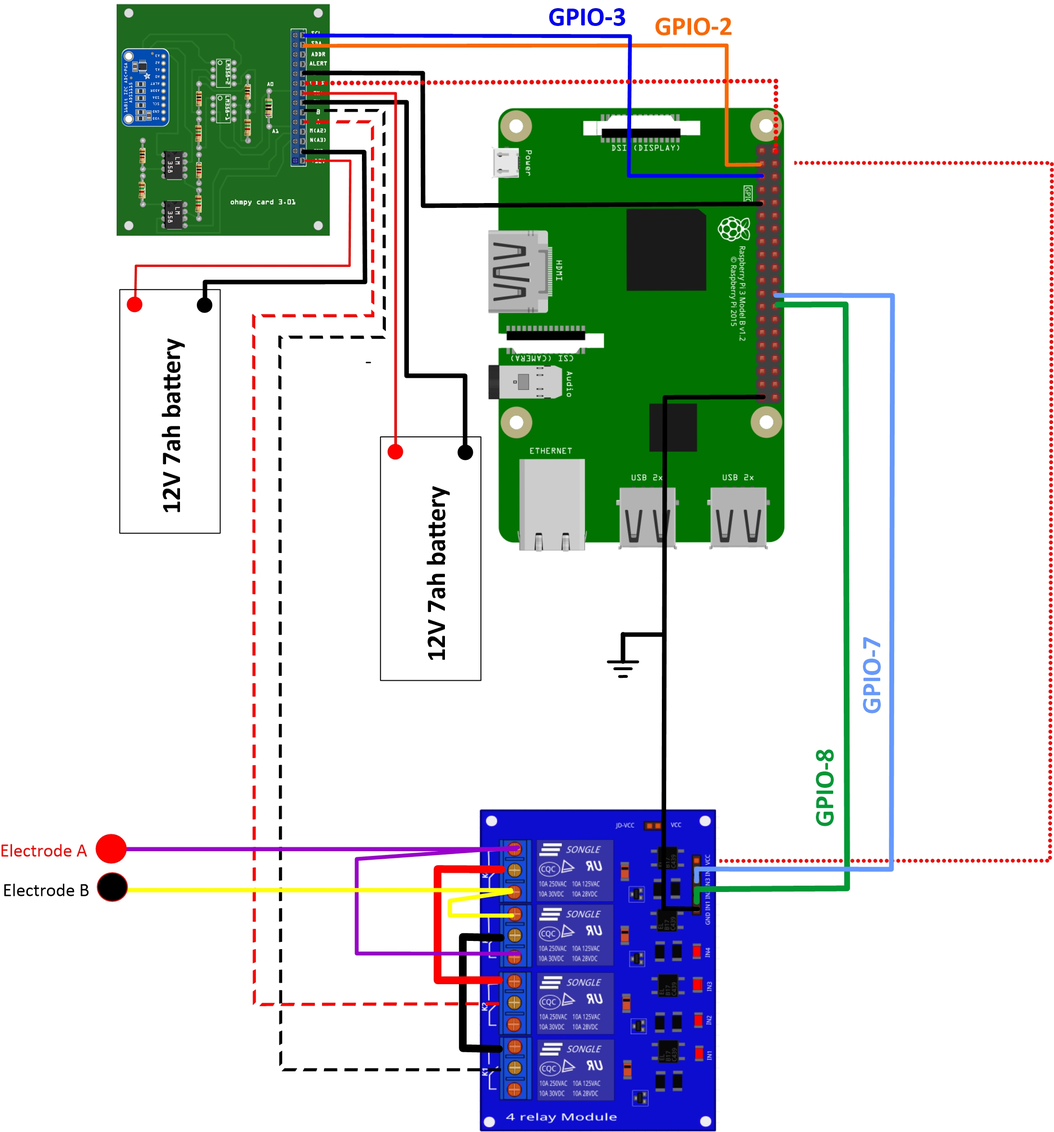
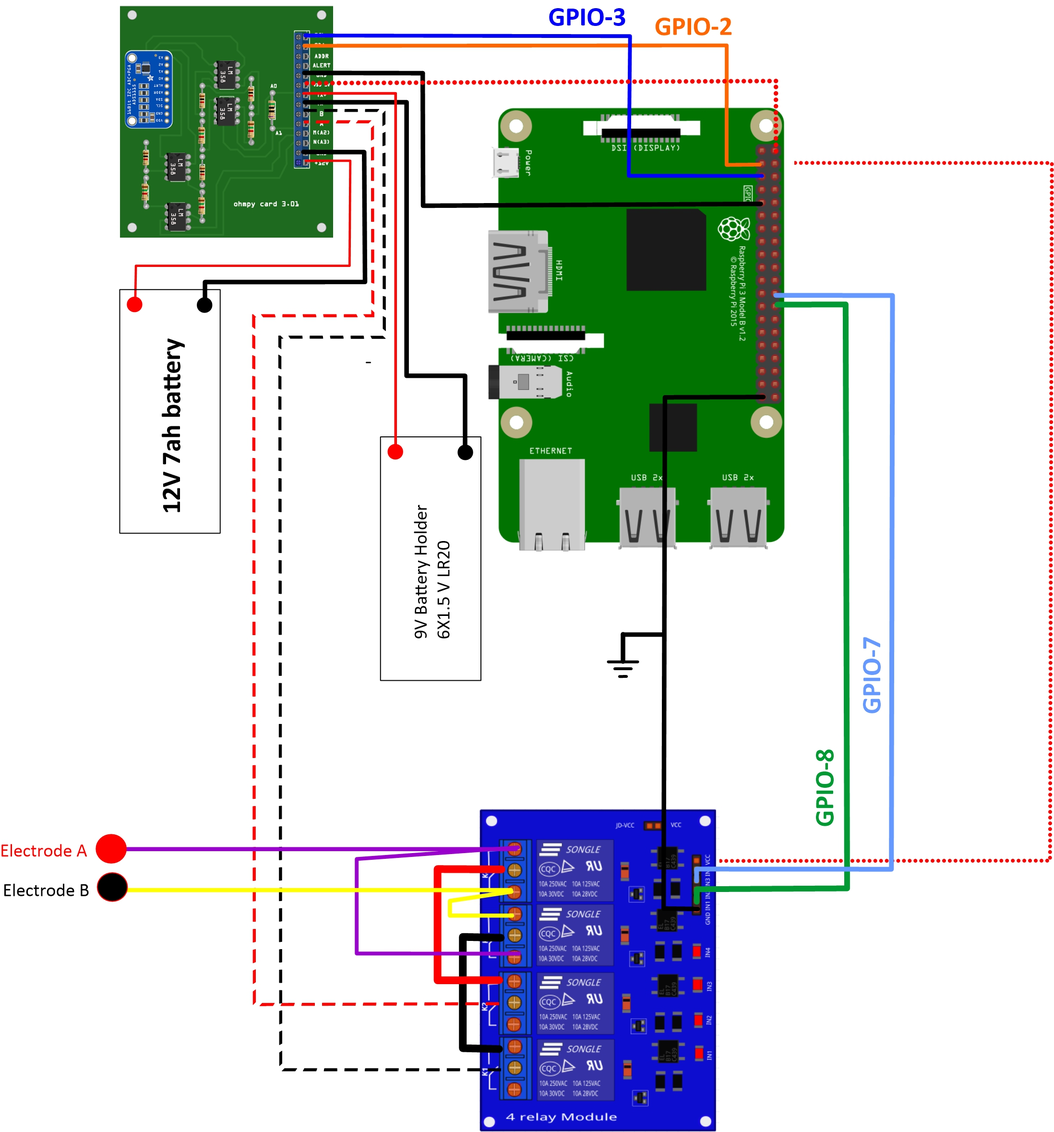
Update figure current injection board version 1.01

diff --git a/public/searchindex.js b/public/searchindex.js
@@ -1,1 +1,1 @@
-Search.setIndex({docnames:["index","page0","page1"],envversion:{"sphinx.domains.c":2,"sphinx.domains.changeset":1,"sphinx.domains.citation":1,"sphinx.domains.cpp":3,"sphinx.domains.index":1,"sphinx.domains.javascript":2,"sphinx.domains.math":2,"sphinx.domains.python":2,"sphinx.domains.rst":2,"sphinx.domains.std":1,sphinx:56},filenames:["index.rst","page0.rst","page1.rst"],objects:{},objnames:{},objtypes:{},terms:{"100nf":[],"10nf":[],"12v":2,"1x0":2,"1x1":2,"1x10":2,"24v":[],"400px":[],"50vdc":[],"5vcc":2,"5vdc":2,"7ah":2,"800px":[],"ao\u00fbt":1,"case":2,"cr\u00e9er":[],"d\u00e9mo":[],"esp\u00e8r":[],"final":2,"function":[1,2],"h\u00e9l\u00e8ne":[0,1],"install\u00e9":[],"justifi\u00e9":[],"mm\u00b2":2,"nec\u00e9ssair":[],"new":2,"orl\u00e9an":1,"pr\u00e9sent":[],"pr\u00e9sentat":[],"premi\u00e8r":[],"public":2,"r\u00e9mi":[0,1],"r\u00e9sistanc":[],"return":2,"switch":2,"universit\u00e9":1,"vid\u00e9o":2,ADS:2,CMS:2,For:2,IDE:[],IGE:1,Its:2,The:0,These:2,With:2,abmn:2,abov:2,acc:2,access:2,accord:2,accur:2,accuraci:2,acid:2,activ:[],actual:2,adafruit:2,adapt:2,adc:2,added:2,adding:2,addit:2,address:2,adjust:2,administr:[],ads1115:2,ads115:2,ads1x15:2,after:2,albatross:[],align:[],all:2,allow:[1,2],alp:1,also:2,alt:[],altern:2,amp:2,amplifi:2,analog:2,angl:[],ani:2,anoth:2,aop:[],appear:2,appli:2,applic:1,apt:2,arduino:2,arm:2,arrai:2,articl:2,asler:2,assembl:0,assist:2,associ:1,attent:2,attribut:2,aug:[],author:[0,1,2],automat:[1,2],automobil:2,avail:2,avon:[],avr:2,bank:2,barbeau:[],base:2,basic:1,batteri:2,been:2,befor:2,behavior:2,being:2,below:2,between:2,bin:2,bit:2,black:2,blinka:2,block:2,blue:2,bluetext:[],board:[],bodytext:[],bone:[],boot:2,both:2,bridg:2,bug:2,build:2,button:2,c_1:[],c_2:[],cabl:2,calcul:2,calibr:2,call:1,can:2,canal:2,cap:2,capac:2,capacitor:[],caption:[],car:2,card:0,carri:2,caus:2,ceci:[],cedex:1,cela:[],center:[],chacun:[],channel:2,characterist:2,charg:2,check:2,chosen:2,christoph:[],circuit:2,circuitpython:2,circul:2,clean:2,clement:[0,1],click:2,close:2,code:2,coef_p0:2,coef_p1:2,coef_p2:2,coef_p3:2,coeff:2,coeff_:[],coeff_p0:[],coeff_p1:[],coeff_p3:[],coeff_p_:[],coeffici:2,cokela:[],com:2,command:2,commerci:2,common:2,commun:1,complet:0,compon:0,comput:2,conduct:2,config:2,configur:0,congratul:2,connect:0,connector:2,consequ:2,consist:2,constitut:2,construct:2,consult:[],consumpt:2,contact:2,contain:2,content:0,control:2,convers:2,convert:2,correct:2,correspond:2,corrig:[],cos:[],cost:[1,2],could:2,cpu:2,creat:2,creation:1,crimp:2,crunchi:[],csv:2,ctrl:2,currenc:[],current:[0,1],damag:2,dan:[],daniel:[],data:[0,1],date:[0,1],deactiv:2,dec:0,decid:2,decoupl:[],dedic:1,degre:[],delai:2,deliv:2,demo:[],depend:2,des:[],describ:2,design:2,despit:2,detail:2,dev:2,develop:[0,1,2],developp:[],diagram:2,differ:2,digit:2,din:2,direct:2,directli:2,directori:2,disconnect:2,displai:2,distanc:2,disturb:2,divid:2,diviseur:[],dkfjshkdfh:[],doc:[],document:[1,2],doe:[],done:2,download:2,dsp:2,dual:2,duboi:[0,1],durat:2,dure:2,dzwb4:2,e00122ff:1,each:2,editor:2,eiffel:1,either:2,electr:1,electrod:[0,1],electron:2,elsevi:1,emil:1,enabl:2,end:2,energ:2,enough:2,ensur:2,enter:2,entir:2,environ:2,environn:[],environnementshould:2,equal:2,equival:2,eric:[],ert:2,escap:2,est:[],estim:2,everyon:1,evolv:2,exampl:2,excess:2,execut:2,exist:2,experi:[1,2],explain:2,extra:2,failur:2,fair:[],fargier:[0,1],featur:2,femal:2,ferrul:2,fewer:2,ff10:1,fhac0002zxj:2,field:2,fig:2,figclass:[],figur:2,file:2,find:2,first:2,flexibl:1,florsch:2,flow:2,folder:2,follow:2,fonctionn:[],formul:[],forquet:[0,1],four:[],framework:2,franc:1,frog:[],from:2,full:2,fulli:1,fuse:2,gain:2,ganc:[0,1],gannet:[],gather:2,gener:[0,2],ger:1,get:[1,2],gitlab:2,gnd:2,gnu:2,good:[],gpio:2,grenobl:1,gro:1,ground:2,gui:2,guidelin:0,gustav:1,guyard:[0,1],h81k0bya:2,h81k5bya:2,had:2,hand:2,handl:2,hardwar:[1,2],hardwareresist:[],hardwarex:1,has:2,have:2,hazard:2,header:2,hear:2,height:[],help:[],high:2,holder:2,hole:2,home:2,horizont:2,hous:2,how:2,howev:2,http:2,ifsttar:1,illustr:2,imag:1,imped:2,implement:[],implent:0,in1:2,in2:2,in3:2,in4:2,inastal:[],includ:2,incom:2,increas:2,inde:2,index:[],inform:[],inject:[0,1],injection_dur:2,input:2,inra:1,insert:2,insid:2,instal:[],instead:2,instruct:0,instrument:[1,2],intens:2,interfac:2,interpret:2,introduc:2,introduct:[],introduir:[],invit:2,involv:1,ion:2,iri:1,irstea:2,its:2,jason:[],journal:2,jpg:[],json:[],juillet:1,juli:0,julien:[0,1],justifi:[],keyboard:2,kjsdfhksdgfjksdf:[],known:2,kohm:2,laboratori:[1,2],last:[],lastli:2,latest:2,lead:2,leav:2,length:2,les:[],less:2,let:2,libatla:2,librari:2,lie:2,lien:[],like:[],limit:0,line:2,lineno:[],list:0,lithium:2,littelfus:2,littl:2,littlefus:[],lm358an:2,lm358n:2,locat:2,logger:[1,2],logo:[],logo_inra:[],logo_univ_gustav:[],low:[1,2],lr20:2,lying:2,lyon:1,made:2,mai:2,main:2,make:2,manag:2,manual:2,manufactur:2,manuscript:2,massembl:[],master:2,mathrm:[],matur:0,maxdepth:[],maximum:2,measur:[0,1],mechan:2,meet:2,mega:2,menu:2,met:2,meter:[1,2],meterfeatur:1,micro:2,mimic:2,min:2,miss:2,mm2:2,model:2,modif:2,modifi:2,modul:2,mohm:2,monitor:2,moreov:2,moscardi:[],mount:2,mous:2,multi:2,multiplex:[0,1],multipli:2,must:2,mux:2,n_k:[],name:2,nano:2,nb_electrod:2,nbr_mea:2,necessari:2,need:2,neg:2,next:2,nicola:[0,1],noob:2,nopb:2,normal:2,note:2,notr:[],nou:[],nov:[],now:2,number:2,numer:2,numpi:2,obtain:2,offcial:0,offer:2,officiel:[],offset:[],ohm:2,ohmmet:2,ohmpi:[],ohmpi_param:[],ohx:1,onc:2,one:2,onli:[],onto:2,open:[1,2],oper:0,optim:2,option:2,order:2,org:[],osf:2,other:2,our:2,out:2,output:2,ouvr:[],overh:[],packag:[],page0:[],page1:[],page:0,pai:2,panda:2,paramet:[],parent:[],parl:[],part:2,parten:1,path:2,pcb:2,per:2,perform:[1,2],permut:2,peu:[],philosophi:[0,1],pic:2,piec:2,pin1:[],pin:2,pip:2,pitch:2,place:2,pleas:2,plu:[],plug:2,png:[],point:2,polar:2,pole:2,pond:[],posit:2,possibl:2,potenti:2,pour:2,power:2,practic:2,pradal:[],precis:2,prefer:2,premier:0,prepar:2,present:[1,2],press:2,previous:2,print:2,pro:2,procedur:[],produc:2,program:2,progress:[0,1],project:0,propos:2,protocol:2,provid:[1,2],publish:2,puls:2,purpos:2,pyhton3:2,python3:2,python:[],pythonid:2,quadripol:2,quadrupol:2,quantiti:2,que:[],r10:2,r11:2,r12:2,r_ref:2,rail:2,rang:2,rapberri:[],raspberri:0,raspberrypi:[],raspbian:2,raspbian_vers:[],raspebrri:2,readm:2,recommend:2,rectangl:[],red:2,reduct:2,ref:[],refer:2,relai:2,relat:[],releas:0,remain:2,rememb:2,remot:2,repeat:2,repetit:2,repositori:2,repres:2,requir:2,research:0,resist:[0,1],resistor:2,resolut:2,respect:2,result:2,revers:2,reversa:[1,2],rippl:[],robust:[1,2],role:2,root:2,rpi:2,rro:1,run:2,s_k:[],safeti:2,sain:2,sainsmart:2,same:2,samtec:2,save:2,scale:1,schemat:2,scienc:2,scientif:1,screen:2,screw:2,search:[],second:2,section:2,see:2,select:2,sequenc:2,sequence_delai:2,seri:2,serv:2,set:2,setup:2,sever:2,shape:[],shield:2,shortcut:2,should:2,show:2,shown:2,side:[],signal:2,simpl:2,simpli:2,simultan:2,singl:2,site:[],skim:[],slightli:[],slope:2,small:[1,2],smaller:2,smart:2,softwar:2,soil:2,solder:2,solut:2,some:[0,2],sound:2,sourc:[1,2],specif:2,specifi:2,sphinx:[],spi:2,squar:[],ssw:2,stabl:2,stack:2,stainless:2,start:[0,2],statu:[0,1],steel:2,step:2,stick:[],still:2,storag:2,strict:2,strip:2,strong:2,stronger:2,strongli:2,stuck:2,studi:2,style:[],subject:2,sudo:2,suffici:2,suggest:2,suitabl:2,sum:2,sum_:[],suppli:2,sur:[],sure:2,surfac:1,system:2,tab:2,tabl:[],take:[],tape:[],target:0,task:2,tata:[],technic:0,temperatur:2,ten:2,termin:2,test:2,tester:[],texa:2,text:[],textcolor:[],than:2,the9:2,thei:2,them:2,therefor:2,thevalid:2,thi:[1,2],thoma:[],thonni:[],thousand:2,three:2,through:2,thu:2,time:2,toctre:[],togeth:2,took:[],tool:1,total:2,toto:[],tourn:[],track:2,treat:[],trn3:[],tru:2,turn:2,tutori:0,two:2,txt:2,type:2,typic:2,under:2,underconstruct:[],unexpectedli:2,unit:2,univ:1,unzip:2,updat:1,upping:2,upw50b50rv:2,usd:[],use:2,used:2,user:[0,2],using:2,usr:2,valeur:[],valid:[],valu:2,variou:2,venv:2,version:2,vertic:2,via:2,villeurbann:1,virtual:[],vise:[],vivien:[0,1],vlide:[],voi:[],voici:[],voltag:2,voltmet:2,vou:[],wai:2,watch:2,weaker:2,websit:2,weidmul:2,welcom:1,well:2,were:2,when:2,where:2,which:2,whose:2,width:[],willing:1,window:2,wire:2,within:2,without:2,wjwzhv1v3pk:2,would:2,wouldn:[],write:2,www:2,x_n:[],yannick:[0,1],you:2,your:2,youtub:2},titles:["OHMPI: Open source and open hardware resitivity-meter","Premiere page","OhmPi V 1.01 (limited to 32 electrodes)"],titleterms:{IDE:2,The:2,activ:2,assembl:2,bienvenu:[],board:2,card:2,center:0,cett:[],cite:1,complet:2,compon:2,configur:2,connect:2,construct:[],current:2,data:2,delight:[],descript:2,developp:[],document:0,electr:2,electrod:2,environn:2,formul:[],four:2,frist:2,frozen:[],hardwar:0,imag:[],implement:2,implent:2,inastal:[],indic:[],initi:2,inject:2,instal:2,instruct:2,introduct:1,lien:[],limit:2,list:2,massembl:[],measur:2,mesur:2,meter:0,modif:[],multiplex:2,ohmpi:[0,1,2],onli:2,open:0,openalea:[],oper:2,packag:2,page:1,paramet:2,philosophi:2,preliminari:2,premier:1,procedur:2,project:1,python:2,rapberri:2,raspberri:2,resist:2,resit:0,run:[],second:[],sourc:0,startup:2,step:[],summari:0,sur:[],tabl:2,technic:2,text:[],thonni:2,titl:2,virtual:2,welcom:[]}})
+Search.setIndex({docnames:["index","old/page2","page0","page1"],envversion:{"sphinx.domains.c":2,"sphinx.domains.changeset":1,"sphinx.domains.citation":1,"sphinx.domains.cpp":3,"sphinx.domains.index":1,"sphinx.domains.javascript":2,"sphinx.domains.math":2,"sphinx.domains.python":2,"sphinx.domains.rst":2,"sphinx.domains.std":1,sphinx:56},filenames:["index.rst","old\\page2.rst","page0.rst","page1.rst"],objects:{},objnames:{},objtypes:{},terms:{"100nf":1,"10nf":1,"12v":3,"1x0":3,"1x1":3,"1x10":3,"24v":1,"400px":[],"50vdc":1,"5vcc":3,"5vdc":3,"7ah":3,"800px":[],"ao\u00fbt":2,"case":[1,3],"cr\u00e9er":[],"d\u00e9mo":[],"esp\u00e8r":[],"final":[1,3],"function":[1,2,3],"h\u00e9l\u00e8ne":[0,2],"install\u00e9":[],"justifi\u00e9":[],"mm\u00b2":[1,3],"nec\u00e9ssair":[],"new":[1,3],"orl\u00e9an":2,"pr\u00e9sent":[],"pr\u00e9sentat":[],"premi\u00e8r":[],"public":3,"r\u00e9mi":[0,2],"r\u00e9sistanc":[],"return":[1,3],"switch":[1,3],"universit\u00e9":2,"vid\u00e9o":[1,3],ADS:[1,3],CMS:3,For:[1,3],IDE:[],IGE:2,Its:[1,3],The:0,These:[1,3],With:[1,3],abmn:[1,3],abov:[1,3],acc:[1,3],access:[1,3],accord:[1,3],accur:[1,3],accuraci:[1,3],acid:[1,3],activ:[],actual:[1,3],adafruit:[1,3],adapt:[1,3],adc:[1,3],added:[1,3],adding:[1,3],addit:[1,3],address:[1,3],adjust:[1,3],administr:[],ads1115:[1,3],ads115:[1,3],ads1x15:[1,3],after:[1,3],albatross:[],align:[],all:[1,3],allow:[1,2,3],alp:2,also:[1,3],alt:[],altern:[1,3],amp:3,amplifi:[1,3],analog:[1,3],angl:[],ani:[1,3],anoth:[1,3],aop:1,appear:[1,3],appli:[1,3],applic:2,apt:[1,3],arduino:3,arm:3,arrai:[1,3],articl:3,asler:3,assembl:0,assist:[1,3],associ:2,attent:[1,3],attribut:[1,3],aug:[],author:[0,1,2,3],automat:[1,2,3],automobil:[1,3],avail:[1,3],avon:[],avr:3,bank:[1,3],barbeau:[],base:[1,3],basic:2,batteri:[1,3],been:[1,3],befor:[1,3],behavior:[1,3],being:[1,3],below:[1,3],between:[1,3],bin:[1,3],bit:[1,3],black:[1,3],blinka:[1,3],block:[1,3],blue:[1,3],bluetext:[],board:[],bodytext:[],bone:[],boot:[1,3],both:[1,3],bridg:[1,3],bug:3,build:3,button:[1,3],c_1:[],c_2:[],cabl:[1,3],calcul:[1,3],calibr:[1,3],call:2,can:[1,3],canal:3,cap:[1,3],capac:[1,3],capacitor:1,caption:[],car:3,card:0,carri:[1,3],caus:[1,3],ceci:[],cedex:2,cela:[],center:[],chacun:[],channel:[1,3],characterist:[1,3],charg:[1,3],check:[1,3],chosen:[1,3],christoph:[],circuit:[1,3],circuitpython:[1,3],circul:[1,3],clean:[1,3],clement:[0,1,2],click:[1,3],close:[1,3],code:[1,3],coef_p0:[1,3],coef_p1:[1,3],coef_p2:[1,3],coef_p3:[1,3],coeff:[1,3],coeff_:[],coeff_p0:[],coeff_p1:[],coeff_p3:[],coeff_p_:[],coeffici:[1,3],cokela:[],com:[1,3],command:[1,3],commerci:[1,3],common:[1,3],commun:2,complet:0,compon:0,comput:[1,3],conduct:[1,3],config:[1,3],configur:0,congratul:3,connect:0,connector:[1,3],consequ:[1,3],consist:[1,3],constitut:[1,3],construct:[1,3],consult:[],consumpt:[1,3],contact:[1,3],contain:[1,3],content:0,control:[1,3],convers:[1,3],convert:[1,3],correct:[1,3],correspond:3,corrig:[],cos:[],cost:[2,3],could:[1,3],cpu:[1,3],creat:[1,3],creation:2,crimp:3,crunchi:[],csv:[1,3],ctrl:[1,3],currenc:[],current:[0,2],damag:[1,3],dan:[],daniel:[],data:[0,2],date:[0,2],deactiv:[1,3],dec:0,decid:[1,3],decoupl:1,dedic:2,degre:[],delai:[1,3],deliv:[1,3],demo:[],depend:[1,3],des:[],describ:[1,3],design:[1,3],despit:[1,3],detail:3,dev:[1,3],develop:[0,1,2,3],developp:[],diagram:[1,3],differ:[1,3],digit:[1,3],din:[1,3],direct:[1,3],directli:[1,3],directori:[1,3],disconnect:[1,3],displai:[1,3],distanc:[1,3],disturb:[1,3],divid:[1,3],diviseur:[],dkfjshkdfh:[],doc:[],document:[2,3],doe:1,done:[1,3],download:[1,3],dsp:3,dual:[1,3],duboi:[0,2],durat:[1,3],dure:[1,3],dzwb4:[1,3],e00122ff:2,each:[1,3],editor:[1,3],eiffel:2,either:[1,3],electr:2,electrod:[0,2],electron:[1,3],elsevi:2,emil:2,enabl:[1,3],end:[1,3],energ:[1,3],enough:[1,3],ensur:[1,3],enter:[1,3],entir:[1,3],environ:[1,3],environn:[],environnementshould:[1,3],equal:[1,3],equival:[1,3],eric:[],ert:[1,3],escap:[1,3],est:[],estim:[1,3],everyon:2,evolv:3,exampl:[1,3],excess:[1,3],execut:[1,3],exist:3,experi:[1,2,3],explain:3,extra:[1,3],failur:[1,3],fair:[],fargier:[0,2],featur:3,femal:[1,3],ferrul:3,fewer:[1,3],ff10:2,fhac0002zxj:3,field:[1,3],fig:[1,3],figclass:[],figur:[1,3],file:[1,3],find:[1,3],first:[1,3],flexibl:2,florsch:[1,3],flow:[1,3],folder:[1,3],follow:[1,3],fonctionn:[],formul:[],forquet:[0,2],four:[],framework:[1,3],franc:2,frog:[],from:[1,3],full:[1,3],fulli:2,fuse:[1,3],gain:[1,3],ganc:[0,2],gannet:[],gather:[1,3],gener:[0,1,3],ger:2,get:[1,2,3],gitlab:[1,3],gnd:3,gnu:[1,3],good:1,gpio:[1,3],grenobl:2,gro:2,ground:[1,3],gui:[1,3],guidelin:0,gustav:2,guyard:[0,2],h81k0bya:3,h81k5bya:3,had:[1,3],hand:[1,3],handl:[1,3],hardwar:[1,2,3],hardwareresist:[],hardwarex:2,has:[1,3],have:[1,3],hazard:[1,3],header:[1,3],hear:[1,3],height:[],help:[],high:[1,3],holder:[1,3],hole:[1,3],home:[1,3],horizont:[1,3],hous:[1,3],how:[1,3],howev:[1,3],http:[1,3],ifsttar:2,illustr:[1,3],imag:2,imped:[1,3],implement:[],implent:0,in1:3,in2:3,in3:3,in4:3,inastal:[],includ:[1,3],incom:[1,3],increas:[1,3],inde:[1,3],index:[],inform:[],inject:[0,2],injection_dur:[1,3],input:[1,3],inra:2,insert:[1,3],insid:[1,3],instal:[],instead:[1,3],instruct:0,instrument:[2,3],intens:[1,3],interfac:[1,3],interpret:[1,3],introduc:[1,3],introduct:[],introduir:[],invit:3,involv:2,ion:[1,3],iri:2,irstea:[1,3],its:3,jason:1,journal:3,jpg:[],json:1,juillet:2,juli:0,julien:[0,2],justifi:[],keyboard:[1,3],kjsdfhksdgfjksdf:[],known:[1,3],kohm:[1,3],laboratori:[1,2,3],last:1,lastli:[1,3],latest:[1,3],lead:[1,3],leav:[1,3],length:[1,3],les:[],less:[1,3],let:[1,3],libatla:[1,3],librari:[1,3],lie:[1,3],lien:[],like:[],limit:0,line:[1,3],lineno:[],list:0,lithium:[1,3],littelfus:3,littl:3,littlefus:1,lm358an:3,lm358n:[1,3],locat:[1,3],logger:[1,2,3],logo:[],logo_inra:[],logo_univ_gustav:[],low:[1,2,3],lr20:3,lying:[1,3],lyon:2,made:[1,3],mai:[1,3],main:[1,3],make:[1,3],manag:[1,3],manual:[1,3],manufactur:3,manuscript:[1,3],massembl:[],master:[1,3],mathrm:[],matur:0,maxdepth:[],maximum:[1,3],measur:[0,2],mechan:[1,3],meet:[1,3],mega:[1,3],menu:[1,3],met:[1,3],meter:[1,2,3],meterfeatur:2,micro:[1,3],mimic:[1,3],min:[1,3],miss:3,mm2:3,model:[1,3],modif:[1,3],modifi:[1,3],modul:[1,3],mohm:[1,3],monitor:[1,3],moreov:[1,3],moscardi:[],mount:[1,3],mous:[1,3],multi:[1,3],multiplex:[0,2],multipli:[1,3],must:[1,3],mux:[1,3],n_k:[],name:[1,3],nano:[1,3],nb_electrod:[1,3],nbr_mea:[1,3],necessari:[1,3],need:[1,3],neg:[1,3],next:[1,3],nicola:[0,2],noob:[1,3],nopb:3,normal:[1,3],note:[1,3],notr:[],nou:[],nov:[],now:[1,3],number:[1,3],numer:[1,3],numpi:[1,3],obtain:[1,3],offcial:0,offer:[1,3],officiel:[],offset:[],ohm:[1,3],ohmmet:[1,3],ohmpi:[],ohmpi_param:1,ohx:2,onc:[1,3],one:[1,3],onli:[],onto:[1,3],open:[1,2,3],oper:0,optim:[1,3],option:[1,3],order:[1,3],org:[],osf:[1,3],other:[1,3],our:[1,3],out:[1,3],output:[1,3],ouvr:[],overh:1,packag:[],page0:[],page1:[],page:0,pai:[1,3],panda:[1,3],paramet:[],parent:[],parl:[],part:[1,3],parten:2,path:[1,3],pcb:[1,3],per:[1,3],perform:[1,2,3],permut:[1,3],peu:[],philosophi:[0,2],pic:3,piec:3,pin1:[],pin:[1,3],pip:[1,3],pitch:[1,3],place:[1,3],pleas:[1,3],plu:[],plug:[1,3],png:[],point:[1,3],polar:[1,3],pole:[1,3],pond:[],posit:[1,3],possibl:[1,3],potenti:[1,3],pour:3,power:[1,3],practic:[1,3],pradal:[],precis:[1,3],prefer:[1,3],premier:0,prepar:[1,3],present:[1,2,3],press:[1,3],previous:[1,3],print:[1,3],pro:3,procedur:[],produc:[1,3],program:[1,3],progress:[0,2],project:0,propos:[1,3],protocol:[1,3],provid:[1,2,3],publish:3,puls:[1,3],purpos:[1,3],pyhton3:[1,3],python3:[1,3],python:[],pythonid:[1,3],quadripol:[1,3],quadrupol:[1,3],quantiti:3,que:[],r10:[1,3],r11:[1,3],r12:[1,3],r_ref:[1,3],rail:[1,3],rang:[1,3],rapberri:[],raspberri:0,raspberrypi:[],raspbian:[1,3],raspbian_vers:[],raspebrri:[1,3],readm:[1,3],recommend:[1,3],rectangl:[],red:3,reduct:[1,3],ref:1,refer:[1,3],relai:[1,3],relat:[],releas:0,remain:[1,3],rememb:[1,3],remot:[1,3],repeat:[1,3],repetit:[1,3],repositori:[1,3],repres:[1,3],requir:[1,3],research:0,resist:[0,2],resistor:[1,3],resolut:[1,3],respect:[1,3],result:[1,3],revers:[1,3],reversa:[1,2,3],rippl:[],robust:[1,2,3],role:[1,3],root:[1,3],rpi:[1,3],rro:2,run:[1,3],s_k:[],safeti:[1,3],sain:3,sainsmart:3,same:[1,3],samtec:3,save:[1,3],scale:2,schemat:[1,3],scienc:[1,3],scientif:2,screen:[1,3],screw:[1,3],search:[],second:[1,3],section:[1,3],see:[1,3],select:[1,3],sequenc:[1,3],sequence_delai:[1,3],seri:[1,3],serv:[1,3],set:[1,3],setup:[1,3],sever:[1,3],shape:[],shield:[1,3],shortcut:[1,3],should:[1,3],show:[1,3],shown:[1,3],side:[],signal:[1,3],simpl:[1,3],simpli:[1,3],simultan:[1,3],singl:[1,3],site:[],skim:1,slightli:1,slope:[1,3],small:[1,2,3],smaller:[1,3],smart:3,softwar:[1,3],soil:[1,3],solder:[1,3],solut:[1,3],some:[0,1,3],sound:[1,3],sourc:[1,2,3],specif:[1,3],specifi:[1,3],sphinx:[],spi:[1,3],squar:[],ssw:3,stabl:[1,3],stack:[1,3],stainless:[1,3],start:[0,1,3],statu:[0,2],steel:[1,3],step:[1,3],stick:[],still:[1,3],storag:[1,3],strict:3,strip:[1,3],strong:[1,3],stronger:[1,3],strongli:[1,3],stuck:[1,3],studi:[1,3],style:[],subject:[1,3],sudo:[1,3],suffici:[1,3],suggest:[1,3],suitabl:[1,3],sum:[1,3],sum_:[],suppli:[1,3],sur:[],sure:[1,3],surfac:2,system:[1,3],tab:[1,3],tabl:1,take:1,tape:[],target:0,task:[1,3],tata:[],technic:0,temperatur:[1,3],ten:[1,3],termin:[1,3],test:[1,3],tester:[],texa:3,text:[],textcolor:[],than:[1,3],the9:3,thei:[1,3],them:3,therefor:[1,3],thevalid:[],thi:[1,2,3],thoma:[],thonni:[],thousand:[1,3],three:[1,3],through:[1,3],thu:[1,3],time:[1,3],toctre:[],togeth:[1,3],took:[],tool:2,total:[1,3],toto:[],tourn:[],track:[1,3],treat:[],trn3:1,tru:3,turn:[1,3],tutori:0,two:[1,3],txt:[1,3],type:[1,3],typic:[1,3],under:[1,3],underconstruct:[],unexpectedli:[1,3],unit:[1,3],univ:2,unzip:[1,3],updat:[1,2],upping:[1,3],upw50b50rv:3,usd:[],use:[1,3],used:[1,3],user:[0,1,3],using:[1,3],usr:[1,3],valeur:[],valid:3,valu:[1,3],variou:[1,3],venv:[1,3],version:[1,3],vertic:[1,3],via:[1,3],villeurbann:2,virtual:[],vise:[],vivien:[0,2],vlide:1,voi:[],voici:[],voltag:[1,3],voltmet:[1,3],vou:[],wai:[1,3],watch:[1,3],weaker:[1,3],websit:[1,3],weidmul:3,welcom:2,well:[1,3],were:[1,3],when:[1,3],where:[1,3],which:[1,3],whose:[1,3],width:[],willing:2,window:[1,3],wire:[1,3],within:[1,3],without:[1,3],wjwzhv1v3pk:[1,3],would:[1,3],wouldn:[],write:[1,3],www:[1,3],x_n:[],yannick:[0,2],you:[1,3],your:[1,3],youtub:[1,3]},titles:["OHMPI: Open source and open hardware resitivity-meter","OhmPi V 1.02 (limited to 32 electrodes)","Premiere page","OhmPi V 1.01 (limited to 32 electrodes)"],titleterms:{IDE:[1,3],The:[1,3],activ:[1,3],assembl:[1,3],bienvenu:[],board:[1,3],card:[1,3],center:0,cett:[],cite:2,complet:[1,3],compon:[1,3],configur:[1,3],connect:[1,3],construct:[],current:[1,3],data:[1,3],delight:[],descript:[1,3],developp:[],document:0,electr:[1,3],electrod:[1,3],environn:[1,3],formul:[],four:[1,3],frist:[1,3],frozen:[],hardwar:0,imag:[],implement:[1,3],implent:[1,3],inastal:[],indic:[],initi:[1,3],inject:[1,3],instal:[1,3],instruct:[1,3],introduct:2,lien:[],limit:[1,3],list:[1,3],massembl:[],measur:[1,3],mesur:[1,3],meter:0,modif:[],multiplex:[1,3],ohmpi:[0,1,2,3],onli:[1,3],open:0,openalea:[],oper:[1,3],packag:[1,3],page:2,paramet:[1,3],philosophi:[1,3],preliminari:[1,3],premier:2,procedur:[1,3],project:2,python:[1,3],rapberri:[1,3],raspberri:[1,3],resist:[1,3],resit:0,run:[],second:[],sourc:0,startup:[1,3],step:[],summari:0,sur:[],tabl:3,technic:[1,3],text:[],thonni:[1,3],titl:3,virtual:[1,3],welcom:[]}})

diff --git a/sphinx/build/html/searchindex.js b/sphinx/build/html/searchindex.js
@@ -1,1 +1,1 @@
-Search.setIndex({docnames:["index","page0","page1"],envversion:{"sphinx.domains.c":2,"sphinx.domains.changeset":1,"sphinx.domains.citation":1,"sphinx.domains.cpp":3,"sphinx.domains.index":1,"sphinx.domains.javascript":2,"sphinx.domains.math":2,"sphinx.domains.python":2,"sphinx.domains.rst":2,"sphinx.domains.std":1,sphinx:56},filenames:["index.rst","page0.rst","page1.rst"],objects:{},objnames:{},objtypes:{},terms:{"100nf":[],"10nf":[],"12v":2,"1x0":2,"1x1":2,"1x10":2,"24v":[],"400px":[],"50vdc":[],"5vcc":2,"5vdc":2,"7ah":2,"800px":[],"ao\u00fbt":1,"case":2,"cr\u00e9er":[],"d\u00e9mo":[],"esp\u00e8r":[],"final":2,"function":[1,2],"h\u00e9l\u00e8ne":[0,1],"install\u00e9":[],"justifi\u00e9":[],"mm\u00b2":2,"nec\u00e9ssair":[],"new":2,"orl\u00e9an":1,"pr\u00e9sent":[],"pr\u00e9sentat":[],"premi\u00e8r":[],"public":2,"r\u00e9mi":[0,1],"r\u00e9sistanc":[],"return":2,"switch":2,"universit\u00e9":1,"vid\u00e9o":2,ADS:2,CMS:2,For:2,IDE:[],IGE:1,Its:2,The:0,These:2,With:2,abmn:2,abov:2,acc:2,access:2,accord:2,accur:2,accuraci:2,acid:2,activ:[],actual:2,adafruit:2,adapt:2,adc:2,added:2,adding:2,addit:2,address:2,adjust:2,administr:[],ads1115:2,ads115:2,ads1x15:2,after:2,albatross:[],align:[],all:2,allow:[1,2],alp:1,also:2,alt:[],altern:2,amp:2,amplifi:2,analog:2,angl:[],ani:2,anoth:2,aop:[],appear:2,appli:2,applic:1,apt:2,arduino:2,arm:2,arrai:2,articl:2,asler:2,assembl:0,assist:2,associ:1,attent:2,attribut:2,aug:[],author:[0,1,2],automat:[1,2],automobil:2,avail:2,avon:[],avr:2,bank:2,barbeau:[],base:2,basic:1,batteri:2,been:2,befor:2,behavior:2,being:2,below:2,between:2,bin:2,bit:2,black:2,blinka:2,block:2,blue:2,bluetext:[],board:[],bodytext:[],bone:[],boot:2,both:2,bridg:2,bug:2,build:2,button:2,c_1:[],c_2:[],cabl:2,calcul:2,calibr:2,call:1,can:2,canal:2,cap:2,capac:2,capacitor:[],caption:[],car:2,card:0,carri:2,caus:2,ceci:[],cedex:1,cela:[],center:[],chacun:[],channel:2,characterist:2,charg:2,check:2,chosen:2,christoph:[],circuit:2,circuitpython:2,circul:2,clean:2,clement:[0,1],click:2,close:2,code:2,coef_p0:2,coef_p1:2,coef_p2:2,coef_p3:2,coeff:2,coeff_:[],coeff_p0:[],coeff_p1:[],coeff_p3:[],coeff_p_:[],coeffici:2,cokela:[],com:2,command:2,commerci:2,common:2,commun:1,complet:0,compon:0,comput:2,conduct:2,config:2,configur:0,congratul:2,connect:0,connector:2,consequ:2,consist:2,constitut:2,construct:2,consult:[],consumpt:2,contact:2,contain:2,content:0,control:2,convers:2,convert:2,correct:2,correspond:2,corrig:[],cos:[],cost:[1,2],could:2,cpu:2,creat:2,creation:1,crimp:2,crunchi:[],csv:2,ctrl:2,currenc:[],current:[0,1],damag:2,dan:[],daniel:[],data:[0,1],date:[0,1],deactiv:2,dec:0,decid:2,decoupl:[],dedic:1,degre:[],delai:2,deliv:2,demo:[],depend:2,des:[],describ:2,design:2,despit:2,detail:2,dev:2,develop:[0,1,2],developp:[],diagram:2,differ:2,digit:2,din:2,direct:2,directli:2,directori:2,disconnect:2,displai:2,distanc:2,disturb:2,divid:2,diviseur:[],dkfjshkdfh:[],doc:[],document:[1,2],doe:[],done:2,download:2,dsp:2,dual:2,duboi:[0,1],durat:2,dure:2,dzwb4:2,e00122ff:1,each:2,editor:2,eiffel:1,either:2,electr:1,electrod:[0,1],electron:2,elsevi:1,emil:1,enabl:2,end:2,energ:2,enough:2,ensur:2,enter:2,entir:2,environ:2,environn:[],environnementshould:2,equal:2,equival:2,eric:[],ert:2,escap:2,est:[],estim:2,everyon:1,evolv:2,exampl:2,excess:2,execut:2,exist:2,experi:[1,2],explain:2,extra:2,failur:2,fair:[],fargier:[0,1],featur:2,femal:2,ferrul:2,fewer:2,ff10:1,fhac0002zxj:2,field:2,fig:2,figclass:[],figur:2,file:2,find:2,first:2,flexibl:1,florsch:2,flow:2,folder:2,follow:2,fonctionn:[],formul:[],forquet:[0,1],four:[],framework:2,franc:1,frog:[],from:2,full:2,fulli:1,fuse:2,gain:2,ganc:[0,1],gannet:[],gather:2,gener:[0,2],ger:1,get:[1,2],gitlab:2,gnd:2,gnu:2,good:[],gpio:2,grenobl:1,gro:1,ground:2,gui:2,guidelin:0,gustav:1,guyard:[0,1],h81k0bya:2,h81k5bya:2,had:2,hand:2,handl:2,hardwar:[1,2],hardwareresist:[],hardwarex:1,has:2,have:2,hazard:2,header:2,hear:2,height:[],help:[],high:2,holder:2,hole:2,home:2,horizont:2,hous:2,how:2,howev:2,http:2,ifsttar:1,illustr:2,imag:1,imped:2,implement:[],implent:0,in1:2,in2:2,in3:2,in4:2,inastal:[],includ:2,incom:2,increas:2,inde:2,index:[],inform:[],inject:[0,1],injection_dur:2,input:2,inra:1,insert:2,insid:2,instal:[],instead:2,instruct:0,instrument:[1,2],intens:2,interfac:2,interpret:2,introduc:2,introduct:[],introduir:[],invit:2,involv:1,ion:2,iri:1,irstea:2,its:2,jason:[],journal:2,jpg:[],json:[],juillet:1,juli:0,julien:[0,1],justifi:[],keyboard:2,kjsdfhksdgfjksdf:[],known:2,kohm:2,laboratori:[1,2],last:[],lastli:2,latest:2,lead:2,leav:2,length:2,les:[],less:2,let:2,libatla:2,librari:2,lie:2,lien:[],like:[],limit:0,line:2,lineno:[],list:0,lithium:2,littelfus:2,littl:2,littlefus:[],lm358an:2,lm358n:2,locat:2,logger:[1,2],logo:[],logo_inra:[],logo_univ_gustav:[],low:[1,2],lr20:2,lying:2,lyon:1,made:2,mai:2,main:2,make:2,manag:2,manual:2,manufactur:2,manuscript:2,massembl:[],master:2,mathrm:[],matur:0,maxdepth:[],maximum:2,measur:[0,1],mechan:2,meet:2,mega:2,menu:2,met:2,meter:[1,2],meterfeatur:1,micro:2,mimic:2,min:2,miss:2,mm2:2,model:2,modif:2,modifi:2,modul:2,mohm:2,monitor:2,moreov:2,moscardi:[],mount:2,mous:2,multi:2,multiplex:[0,1],multipli:2,must:2,mux:2,n_k:[],name:2,nano:2,nb_electrod:2,nbr_mea:2,necessari:2,need:2,neg:2,next:2,nicola:[0,1],noob:2,nopb:2,normal:2,note:2,notr:[],nou:[],nov:[],now:2,number:2,numer:2,numpi:2,obtain:2,offcial:0,offer:2,officiel:[],offset:[],ohm:2,ohmmet:2,ohmpi:[],ohmpi_param:[],ohx:1,onc:2,one:2,onli:[],onto:2,open:[1,2],oper:0,optim:2,option:2,order:2,org:[],osf:2,other:2,our:2,out:2,output:2,ouvr:[],overh:[],packag:[],page0:[],page1:[],page:0,pai:2,panda:2,paramet:[],parent:[],parl:[],part:2,parten:1,path:2,pcb:2,per:2,perform:[1,2],permut:2,peu:[],philosophi:[0,1],pic:2,piec:2,pin1:[],pin:2,pip:2,pitch:2,place:2,pleas:2,plu:[],plug:2,png:[],point:2,polar:2,pole:2,pond:[],posit:2,possibl:2,potenti:2,pour:2,power:2,practic:2,pradal:[],precis:2,prefer:2,premier:0,prepar:2,present:[1,2],press:2,previous:2,print:2,pro:2,procedur:[],produc:2,program:2,progress:[0,1],project:0,propos:2,protocol:2,provid:[1,2],publish:2,puls:2,purpos:2,pyhton3:2,python3:2,python:[],pythonid:2,quadripol:2,quadrupol:2,quantiti:2,que:[],r10:2,r11:2,r12:2,r_ref:2,rail:2,rang:2,rapberri:[],raspberri:0,raspberrypi:[],raspbian:2,raspbian_vers:[],raspebrri:2,readm:2,recommend:2,rectangl:[],red:2,reduct:2,ref:[],refer:2,relai:2,relat:[],releas:0,remain:2,rememb:2,remot:2,repeat:2,repetit:2,repositori:2,repres:2,requir:2,research:0,resist:[0,1],resistor:2,resolut:2,respect:2,result:2,revers:2,reversa:[1,2],rippl:[],robust:[1,2],role:2,root:2,rpi:2,rro:1,run:2,s_k:[],safeti:2,sain:2,sainsmart:2,same:2,samtec:2,save:2,scale:1,schemat:2,scienc:2,scientif:1,screen:2,screw:2,search:[],second:2,section:2,see:2,select:2,sequenc:2,sequence_delai:2,seri:2,serv:2,set:2,setup:2,sever:2,shape:[],shield:2,shortcut:2,should:2,show:2,shown:2,side:[],signal:2,simpl:2,simpli:2,simultan:2,singl:2,site:[],skim:[],slightli:[],slope:2,small:[1,2],smaller:2,smart:2,softwar:2,soil:2,solder:2,solut:2,some:[0,2],sound:2,sourc:[1,2],specif:2,specifi:2,sphinx:[],spi:2,squar:[],ssw:2,stabl:2,stack:2,stainless:2,start:[0,2],statu:[0,1],steel:2,step:2,stick:[],still:2,storag:2,strict:2,strip:2,strong:2,stronger:2,strongli:2,stuck:2,studi:2,style:[],subject:2,sudo:2,suffici:2,suggest:2,suitabl:2,sum:2,sum_:[],suppli:2,sur:[],sure:2,surfac:1,system:2,tab:2,tabl:[],take:[],tape:[],target:0,task:2,tata:[],technic:0,temperatur:2,ten:2,termin:2,test:2,tester:[],texa:2,text:[],textcolor:[],than:2,the9:2,thei:2,them:2,therefor:2,thevalid:2,thi:[1,2],thoma:[],thonni:[],thousand:2,three:2,through:2,thu:2,time:2,toctre:[],togeth:2,took:[],tool:1,total:2,toto:[],tourn:[],track:2,treat:[],trn3:[],tru:2,turn:2,tutori:0,two:2,txt:2,type:2,typic:2,under:2,underconstruct:[],unexpectedli:2,unit:2,univ:1,unzip:2,updat:1,upping:2,upw50b50rv:2,usd:[],use:2,used:2,user:[0,2],using:2,usr:2,valeur:[],valid:[],valu:2,variou:2,venv:2,version:2,vertic:2,via:2,villeurbann:1,virtual:[],vise:[],vivien:[0,1],vlide:[],voi:[],voici:[],voltag:2,voltmet:2,vou:[],wai:2,watch:2,weaker:2,websit:2,weidmul:2,welcom:1,well:2,were:2,when:2,where:2,which:2,whose:2,width:[],willing:1,window:2,wire:2,within:2,without:2,wjwzhv1v3pk:2,would:2,wouldn:[],write:2,www:2,x_n:[],yannick:[0,1],you:2,your:2,youtub:2},titles:["OHMPI: Open source and open hardware resitivity-meter","Premiere page","OhmPi V 1.01 (limited to 32 electrodes)"],titleterms:{IDE:2,The:2,activ:2,assembl:2,bienvenu:[],board:2,card:2,center:0,cett:[],cite:1,complet:2,compon:2,configur:2,connect:2,construct:[],current:2,data:2,delight:[],descript:2,developp:[],document:0,electr:2,electrod:2,environn:2,formul:[],four:2,frist:2,frozen:[],hardwar:0,imag:[],implement:2,implent:2,inastal:[],indic:[],initi:2,inject:2,instal:2,instruct:2,introduct:1,lien:[],limit:2,list:2,massembl:[],measur:2,mesur:2,meter:0,modif:[],multiplex:2,ohmpi:[0,1,2],onli:2,open:0,openalea:[],oper:2,packag:2,page:1,paramet:2,philosophi:2,preliminari:2,premier:1,procedur:2,project:1,python:2,rapberri:2,raspberri:2,resist:2,resit:0,run:[],second:[],sourc:0,startup:2,step:[],summari:0,sur:[],tabl:2,technic:2,text:[],thonni:2,titl:2,virtual:2,welcom:[]}})
+Search.setIndex({docnames:["index","old/page2","page0","page1"],envversion:{"sphinx.domains.c":2,"sphinx.domains.changeset":1,"sphinx.domains.citation":1,"sphinx.domains.cpp":3,"sphinx.domains.index":1,"sphinx.domains.javascript":2,"sphinx.domains.math":2,"sphinx.domains.python":2,"sphinx.domains.rst":2,"sphinx.domains.std":1,sphinx:56},filenames:["index.rst","old\\page2.rst","page0.rst","page1.rst"],objects:{},objnames:{},objtypes:{},terms:{"100nf":1,"10nf":1,"12v":3,"1x0":3,"1x1":3,"1x10":3,"24v":1,"400px":[],"50vdc":1,"5vcc":3,"5vdc":3,"7ah":3,"800px":[],"ao\u00fbt":2,"case":[1,3],"cr\u00e9er":[],"d\u00e9mo":[],"esp\u00e8r":[],"final":[1,3],"function":[1,2,3],"h\u00e9l\u00e8ne":[0,2],"install\u00e9":[],"justifi\u00e9":[],"mm\u00b2":[1,3],"nec\u00e9ssair":[],"new":[1,3],"orl\u00e9an":2,"pr\u00e9sent":[],"pr\u00e9sentat":[],"premi\u00e8r":[],"public":3,"r\u00e9mi":[0,2],"r\u00e9sistanc":[],"return":[1,3],"switch":[1,3],"universit\u00e9":2,"vid\u00e9o":[1,3],ADS:[1,3],CMS:3,For:[1,3],IDE:[],IGE:2,Its:[1,3],The:0,These:[1,3],With:[1,3],abmn:[1,3],abov:[1,3],acc:[1,3],access:[1,3],accord:[1,3],accur:[1,3],accuraci:[1,3],acid:[1,3],activ:[],actual:[1,3],adafruit:[1,3],adapt:[1,3],adc:[1,3],added:[1,3],adding:[1,3],addit:[1,3],address:[1,3],adjust:[1,3],administr:[],ads1115:[1,3],ads115:[1,3],ads1x15:[1,3],after:[1,3],albatross:[],align:[],all:[1,3],allow:[1,2,3],alp:2,also:[1,3],alt:[],altern:[1,3],amp:3,amplifi:[1,3],analog:[1,3],angl:[],ani:[1,3],anoth:[1,3],aop:1,appear:[1,3],appli:[1,3],applic:2,apt:[1,3],arduino:3,arm:3,arrai:[1,3],articl:3,asler:3,assembl:0,assist:[1,3],associ:2,attent:[1,3],attribut:[1,3],aug:[],author:[0,1,2,3],automat:[1,2,3],automobil:[1,3],avail:[1,3],avon:[],avr:3,bank:[1,3],barbeau:[],base:[1,3],basic:2,batteri:[1,3],been:[1,3],befor:[1,3],behavior:[1,3],being:[1,3],below:[1,3],between:[1,3],bin:[1,3],bit:[1,3],black:[1,3],blinka:[1,3],block:[1,3],blue:[1,3],bluetext:[],board:[],bodytext:[],bone:[],boot:[1,3],both:[1,3],bridg:[1,3],bug:3,build:3,button:[1,3],c_1:[],c_2:[],cabl:[1,3],calcul:[1,3],calibr:[1,3],call:2,can:[1,3],canal:3,cap:[1,3],capac:[1,3],capacitor:1,caption:[],car:3,card:0,carri:[1,3],caus:[1,3],ceci:[],cedex:2,cela:[],center:[],chacun:[],channel:[1,3],characterist:[1,3],charg:[1,3],check:[1,3],chosen:[1,3],christoph:[],circuit:[1,3],circuitpython:[1,3],circul:[1,3],clean:[1,3],clement:[0,1,2],click:[1,3],close:[1,3],code:[1,3],coef_p0:[1,3],coef_p1:[1,3],coef_p2:[1,3],coef_p3:[1,3],coeff:[1,3],coeff_:[],coeff_p0:[],coeff_p1:[],coeff_p3:[],coeff_p_:[],coeffici:[1,3],cokela:[],com:[1,3],command:[1,3],commerci:[1,3],common:[1,3],commun:2,complet:0,compon:0,comput:[1,3],conduct:[1,3],config:[1,3],configur:0,congratul:3,connect:0,connector:[1,3],consequ:[1,3],consist:[1,3],constitut:[1,3],construct:[1,3],consult:[],consumpt:[1,3],contact:[1,3],contain:[1,3],content:0,control:[1,3],convers:[1,3],convert:[1,3],correct:[1,3],correspond:3,corrig:[],cos:[],cost:[2,3],could:[1,3],cpu:[1,3],creat:[1,3],creation:2,crimp:3,crunchi:[],csv:[1,3],ctrl:[1,3],currenc:[],current:[0,2],damag:[1,3],dan:[],daniel:[],data:[0,2],date:[0,2],deactiv:[1,3],dec:0,decid:[1,3],decoupl:1,dedic:2,degre:[],delai:[1,3],deliv:[1,3],demo:[],depend:[1,3],des:[],describ:[1,3],design:[1,3],despit:[1,3],detail:3,dev:[1,3],develop:[0,1,2,3],developp:[],diagram:[1,3],differ:[1,3],digit:[1,3],din:[1,3],direct:[1,3],directli:[1,3],directori:[1,3],disconnect:[1,3],displai:[1,3],distanc:[1,3],disturb:[1,3],divid:[1,3],diviseur:[],dkfjshkdfh:[],doc:[],document:[2,3],doe:1,done:[1,3],download:[1,3],dsp:3,dual:[1,3],duboi:[0,2],durat:[1,3],dure:[1,3],dzwb4:[1,3],e00122ff:2,each:[1,3],editor:[1,3],eiffel:2,either:[1,3],electr:2,electrod:[0,2],electron:[1,3],elsevi:2,emil:2,enabl:[1,3],end:[1,3],energ:[1,3],enough:[1,3],ensur:[1,3],enter:[1,3],entir:[1,3],environ:[1,3],environn:[],environnementshould:[1,3],equal:[1,3],equival:[1,3],eric:[],ert:[1,3],escap:[1,3],est:[],estim:[1,3],everyon:2,evolv:3,exampl:[1,3],excess:[1,3],execut:[1,3],exist:3,experi:[1,2,3],explain:3,extra:[1,3],failur:[1,3],fair:[],fargier:[0,2],featur:3,femal:[1,3],ferrul:3,fewer:[1,3],ff10:2,fhac0002zxj:3,field:[1,3],fig:[1,3],figclass:[],figur:[1,3],file:[1,3],find:[1,3],first:[1,3],flexibl:2,florsch:[1,3],flow:[1,3],folder:[1,3],follow:[1,3],fonctionn:[],formul:[],forquet:[0,2],four:[],framework:[1,3],franc:2,frog:[],from:[1,3],full:[1,3],fulli:2,fuse:[1,3],gain:[1,3],ganc:[0,2],gannet:[],gather:[1,3],gener:[0,1,3],ger:2,get:[1,2,3],gitlab:[1,3],gnd:3,gnu:[1,3],good:1,gpio:[1,3],grenobl:2,gro:2,ground:[1,3],gui:[1,3],guidelin:0,gustav:2,guyard:[0,2],h81k0bya:3,h81k5bya:3,had:[1,3],hand:[1,3],handl:[1,3],hardwar:[1,2,3],hardwareresist:[],hardwarex:2,has:[1,3],have:[1,3],hazard:[1,3],header:[1,3],hear:[1,3],height:[],help:[],high:[1,3],holder:[1,3],hole:[1,3],home:[1,3],horizont:[1,3],hous:[1,3],how:[1,3],howev:[1,3],http:[1,3],ifsttar:2,illustr:[1,3],imag:2,imped:[1,3],implement:[],implent:0,in1:3,in2:3,in3:3,in4:3,inastal:[],includ:[1,3],incom:[1,3],increas:[1,3],inde:[1,3],index:[],inform:[],inject:[0,2],injection_dur:[1,3],input:[1,3],inra:2,insert:[1,3],insid:[1,3],instal:[],instead:[1,3],instruct:0,instrument:[2,3],intens:[1,3],interfac:[1,3],interpret:[1,3],introduc:[1,3],introduct:[],introduir:[],invit:3,involv:2,ion:[1,3],iri:2,irstea:[1,3],its:3,jason:1,journal:3,jpg:[],json:1,juillet:2,juli:0,julien:[0,2],justifi:[],keyboard:[1,3],kjsdfhksdgfjksdf:[],known:[1,3],kohm:[1,3],laboratori:[1,2,3],last:1,lastli:[1,3],latest:[1,3],lead:[1,3],leav:[1,3],length:[1,3],les:[],less:[1,3],let:[1,3],libatla:[1,3],librari:[1,3],lie:[1,3],lien:[],like:[],limit:0,line:[1,3],lineno:[],list:0,lithium:[1,3],littelfus:3,littl:3,littlefus:1,lm358an:3,lm358n:[1,3],locat:[1,3],logger:[1,2,3],logo:[],logo_inra:[],logo_univ_gustav:[],low:[1,2,3],lr20:3,lying:[1,3],lyon:2,made:[1,3],mai:[1,3],main:[1,3],make:[1,3],manag:[1,3],manual:[1,3],manufactur:3,manuscript:[1,3],massembl:[],master:[1,3],mathrm:[],matur:0,maxdepth:[],maximum:[1,3],measur:[0,2],mechan:[1,3],meet:[1,3],mega:[1,3],menu:[1,3],met:[1,3],meter:[1,2,3],meterfeatur:2,micro:[1,3],mimic:[1,3],min:[1,3],miss:3,mm2:3,model:[1,3],modif:[1,3],modifi:[1,3],modul:[1,3],mohm:[1,3],monitor:[1,3],moreov:[1,3],moscardi:[],mount:[1,3],mous:[1,3],multi:[1,3],multiplex:[0,2],multipli:[1,3],must:[1,3],mux:[1,3],n_k:[],name:[1,3],nano:[1,3],nb_electrod:[1,3],nbr_mea:[1,3],necessari:[1,3],need:[1,3],neg:[1,3],next:[1,3],nicola:[0,2],noob:[1,3],nopb:3,normal:[1,3],note:[1,3],notr:[],nou:[],nov:[],now:[1,3],number:[1,3],numer:[1,3],numpi:[1,3],obtain:[1,3],offcial:0,offer:[1,3],officiel:[],offset:[],ohm:[1,3],ohmmet:[1,3],ohmpi:[],ohmpi_param:1,ohx:2,onc:[1,3],one:[1,3],onli:[],onto:[1,3],open:[1,2,3],oper:0,optim:[1,3],option:[1,3],order:[1,3],org:[],osf:[1,3],other:[1,3],our:[1,3],out:[1,3],output:[1,3],ouvr:[],overh:1,packag:[],page0:[],page1:[],page:0,pai:[1,3],panda:[1,3],paramet:[],parent:[],parl:[],part:[1,3],parten:2,path:[1,3],pcb:[1,3],per:[1,3],perform:[1,2,3],permut:[1,3],peu:[],philosophi:[0,2],pic:3,piec:3,pin1:[],pin:[1,3],pip:[1,3],pitch:[1,3],place:[1,3],pleas:[1,3],plu:[],plug:[1,3],png:[],point:[1,3],polar:[1,3],pole:[1,3],pond:[],posit:[1,3],possibl:[1,3],potenti:[1,3],pour:3,power:[1,3],practic:[1,3],pradal:[],precis:[1,3],prefer:[1,3],premier:0,prepar:[1,3],present:[1,2,3],press:[1,3],previous:[1,3],print:[1,3],pro:3,procedur:[],produc:[1,3],program:[1,3],progress:[0,2],project:0,propos:[1,3],protocol:[1,3],provid:[1,2,3],publish:3,puls:[1,3],purpos:[1,3],pyhton3:[1,3],python3:[1,3],python:[],pythonid:[1,3],quadripol:[1,3],quadrupol:[1,3],quantiti:3,que:[],r10:[1,3],r11:[1,3],r12:[1,3],r_ref:[1,3],rail:[1,3],rang:[1,3],rapberri:[],raspberri:0,raspberrypi:[],raspbian:[1,3],raspbian_vers:[],raspebrri:[1,3],readm:[1,3],recommend:[1,3],rectangl:[],red:3,reduct:[1,3],ref:1,refer:[1,3],relai:[1,3],relat:[],releas:0,remain:[1,3],rememb:[1,3],remot:[1,3],repeat:[1,3],repetit:[1,3],repositori:[1,3],repres:[1,3],requir:[1,3],research:0,resist:[0,2],resistor:[1,3],resolut:[1,3],respect:[1,3],result:[1,3],revers:[1,3],reversa:[1,2,3],rippl:[],robust:[1,2,3],role:[1,3],root:[1,3],rpi:[1,3],rro:2,run:[1,3],s_k:[],safeti:[1,3],sain:3,sainsmart:3,same:[1,3],samtec:3,save:[1,3],scale:2,schemat:[1,3],scienc:[1,3],scientif:2,screen:[1,3],screw:[1,3],search:[],second:[1,3],section:[1,3],see:[1,3],select:[1,3],sequenc:[1,3],sequence_delai:[1,3],seri:[1,3],serv:[1,3],set:[1,3],setup:[1,3],sever:[1,3],shape:[],shield:[1,3],shortcut:[1,3],should:[1,3],show:[1,3],shown:[1,3],side:[],signal:[1,3],simpl:[1,3],simpli:[1,3],simultan:[1,3],singl:[1,3],site:[],skim:1,slightli:1,slope:[1,3],small:[1,2,3],smaller:[1,3],smart:3,softwar:[1,3],soil:[1,3],solder:[1,3],solut:[1,3],some:[0,1,3],sound:[1,3],sourc:[1,2,3],specif:[1,3],specifi:[1,3],sphinx:[],spi:[1,3],squar:[],ssw:3,stabl:[1,3],stack:[1,3],stainless:[1,3],start:[0,1,3],statu:[0,2],steel:[1,3],step:[1,3],stick:[],still:[1,3],storag:[1,3],strict:3,strip:[1,3],strong:[1,3],stronger:[1,3],strongli:[1,3],stuck:[1,3],studi:[1,3],style:[],subject:[1,3],sudo:[1,3],suffici:[1,3],suggest:[1,3],suitabl:[1,3],sum:[1,3],sum_:[],suppli:[1,3],sur:[],sure:[1,3],surfac:2,system:[1,3],tab:[1,3],tabl:1,take:1,tape:[],target:0,task:[1,3],tata:[],technic:0,temperatur:[1,3],ten:[1,3],termin:[1,3],test:[1,3],tester:[],texa:3,text:[],textcolor:[],than:[1,3],the9:3,thei:[1,3],them:3,therefor:[1,3],thevalid:[],thi:[1,2,3],thoma:[],thonni:[],thousand:[1,3],three:[1,3],through:[1,3],thu:[1,3],time:[1,3],toctre:[],togeth:[1,3],took:[],tool:2,total:[1,3],toto:[],tourn:[],track:[1,3],treat:[],trn3:1,tru:3,turn:[1,3],tutori:0,two:[1,3],txt:[1,3],type:[1,3],typic:[1,3],under:[1,3],underconstruct:[],unexpectedli:[1,3],unit:[1,3],univ:2,unzip:[1,3],updat:[1,2],upping:[1,3],upw50b50rv:3,usd:[],use:[1,3],used:[1,3],user:[0,1,3],using:[1,3],usr:[1,3],valeur:[],valid:3,valu:[1,3],variou:[1,3],venv:[1,3],version:[1,3],vertic:[1,3],via:[1,3],villeurbann:2,virtual:[],vise:[],vivien:[0,2],vlide:1,voi:[],voici:[],voltag:[1,3],voltmet:[1,3],vou:[],wai:[1,3],watch:[1,3],weaker:[1,3],websit:[1,3],weidmul:3,welcom:2,well:[1,3],were:[1,3],when:[1,3],where:[1,3],which:[1,3],whose:[1,3],width:[],willing:2,window:[1,3],wire:[1,3],within:[1,3],without:[1,3],wjwzhv1v3pk:[1,3],would:[1,3],wouldn:[],write:[1,3],www:[1,3],x_n:[],yannick:[0,2],you:[1,3],your:[1,3],youtub:[1,3]},titles:["OHMPI: Open source and open hardware resitivity-meter","OhmPi V 1.02 (limited to 32 electrodes)","Premiere page","OhmPi V 1.01 (limited to 32 electrodes)"],titleterms:{IDE:[1,3],The:[1,3],activ:[1,3],assembl:[1,3],bienvenu:[],board:[1,3],card:[1,3],center:0,cett:[],cite:2,complet:[1,3],compon:[1,3],configur:[1,3],connect:[1,3],construct:[],current:[1,3],data:[1,3],delight:[],descript:[1,3],developp:[],document:0,electr:[1,3],electrod:[1,3],environn:[1,3],formul:[],four:[1,3],frist:[1,3],frozen:[],hardwar:0,imag:[],implement:[1,3],implent:[1,3],inastal:[],indic:[],initi:[1,3],inject:[1,3],instal:[1,3],instruct:[1,3],introduct:2,lien:[],limit:[1,3],list:[1,3],massembl:[],measur:[1,3],mesur:[1,3],meter:0,modif:[],multiplex:[1,3],ohmpi:[0,1,2,3],onli:[1,3],open:0,openalea:[],oper:[1,3],packag:[1,3],page:2,paramet:[1,3],philosophi:[1,3],preliminari:[1,3],premier:2,procedur:[1,3],project:2,python:[1,3],rapberri:[1,3],raspberri:[1,3],resist:[1,3],resit:0,run:[],second:[],sourc:0,startup:[1,3],step:[],summari:0,sur:[],tabl:3,technic:[1,3],text:[],thonni:[1,3],titl:3,virtual:[1,3],welcom:[]}})

diff --git a/public/page1.html b/public/page1.html
@@ -496,7 +496,7 @@ to terminals B and A of the measurement board.</p>
 <div class="section" id="frist-four-electrodes-resistivity-mesurement">
 <h3>Frist four electrodes resistivity mesurement<a class="headerlink" href="#frist-four-electrodes-resistivity-mesurement" title="Permalink to this headline">¶</a></h3>
 <p>Under construction !</p>
-<p>Describe the way thevalide the first part of the instruction.
+<p>Describe the way to valide the first part of the instruction.
 Electrical resistivity measurement on test circuit</p>
 </div>
 </div>

diff --git a/sphinx/build/html/page1.html b/sphinx/build/html/page1.html
@@ -496,7 +496,7 @@ to terminals B and A of the measurement board.</p>
 <div class="section" id="frist-four-electrodes-resistivity-mesurement">
 <h3>Frist four electrodes resistivity mesurement<a class="headerlink" href="#frist-four-electrodes-resistivity-mesurement" title="Permalink to this headline">¶</a></h3>
 <p>Under construction !</p>
-<p>Describe the way thevalide the first part of the instruction.
+<p>Describe the way to valide the first part of the instruction.
 Electrical resistivity measurement on test circuit</p>
 </div>
 </div>
